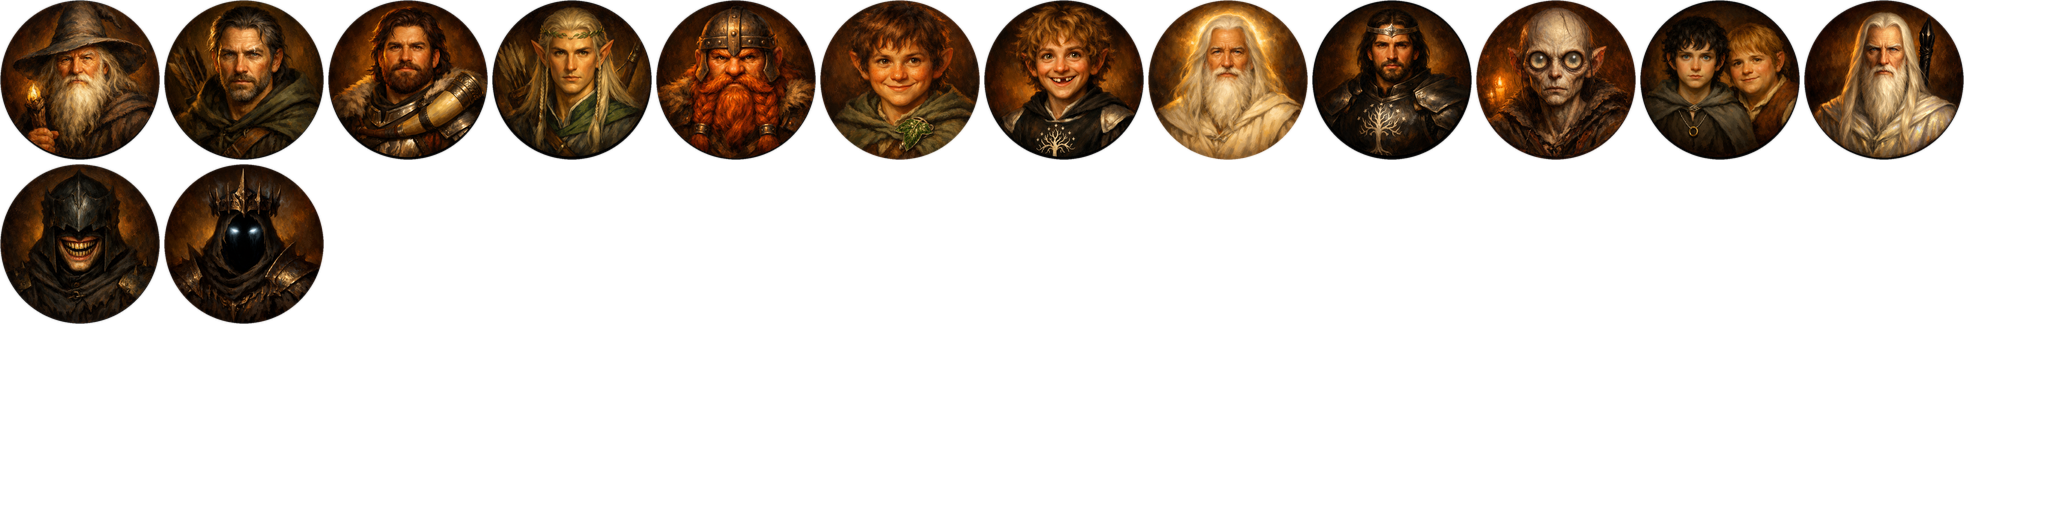
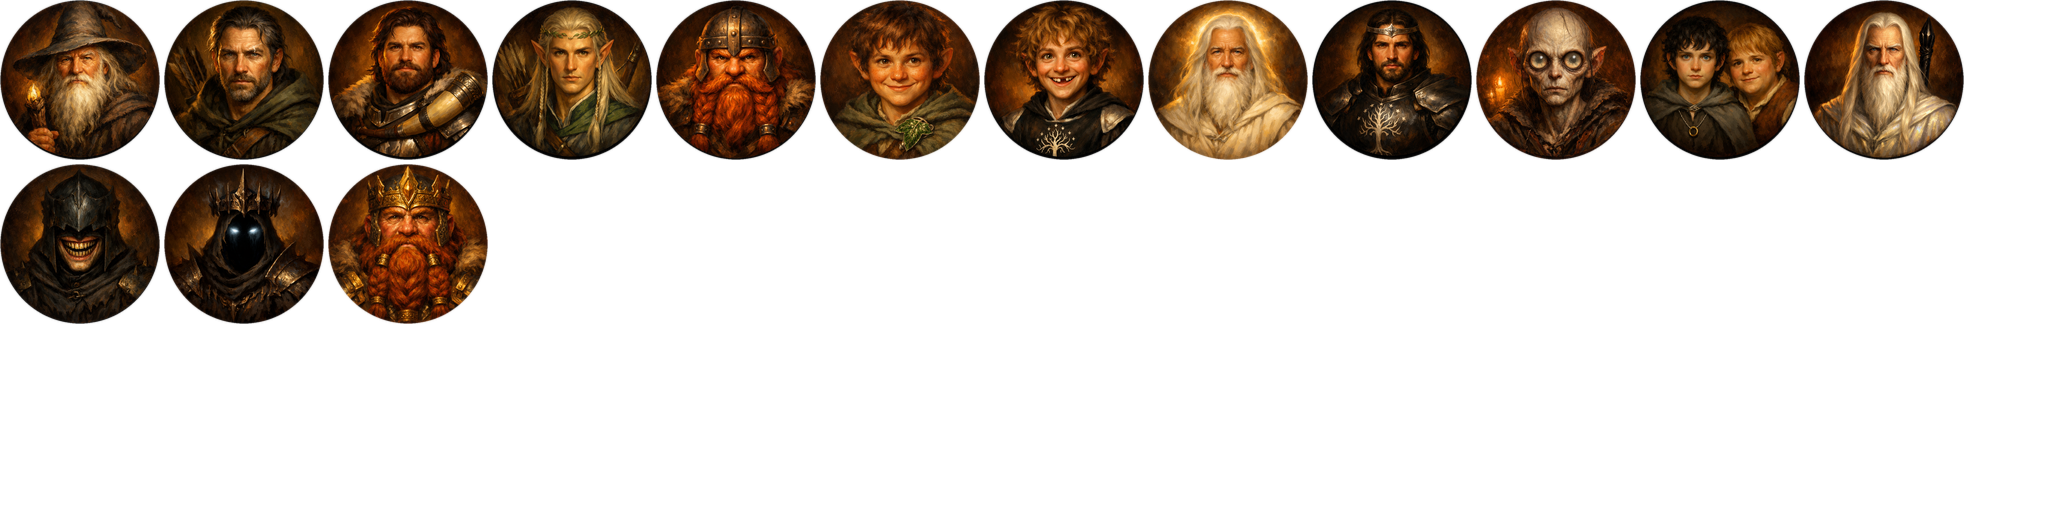
ART-05: Fate of Erebor art
Generated the Dwarven Lord Gimli's figure and portrait and the Shadow-held
Erebor landmark with the existing pipelines, reviewed for the house style,
and built them into the character and portrait atlases and the map
landmarks. The figure atlas builder now builds from the generated items and
lists the rest as pending (Lords and Kings, ART-06/ART-07).

Changed region(s): [[0.1562, 0.3125, 0.25, 0.6562]]

diff --git a/scripts/build_figure_art.py b/scripts/build_figure_art.py
@@ -25,7 +25,7 @@ WIDTH = 2048
 # Relative height of a figure in its cell, so a regular stands lower than its elite and a hobbit lower than a
 # man wherever the cell is shown at one size; the figure stands on the cell's bottom edge.
 STATURE = {'-regular': 0.78, '-leader': 0.88, 'merry': 0.62, 'pippin': 0.62, 'ring-bearers': 0.64, 'gollum': 0.55,
-           'gimli': 0.74}
+           'gimli': 0.74, 'gimli-dwarven-lord': 0.74}
 # style -> (atlas name, cell height, widest cell)
 ATLASES = {
     'unit': ('units-v3', 240, 400),
@@ -94,15 +94,16 @@ def cells(atlas, boxes):
 
 def build():
     spec = json.loads((SOURCE / 'prompts.json').read_text())
-    outputs, sources = {}, {}
+    outputs, sources, pending = {}, {}, []
     for style, (name, height, widest) in ATLASES.items():
         keys = [key for key, (kind, _) in spec['items'].items() if kind == style]
+        # ART-04: an item whose art is not generated yet (its expansion's ART task) waits outside the atlas; the
+        # client shows the figure silhouette for it until then.
+        pending += [key for key in keys if not (SOURCE / 'raw' / (key + '.png')).exists()]
+        keys = [key for key in keys if key not in pending]
         if not keys:
             continue
         paths = {key: SOURCE / 'raw' / (key + '.png') for key in keys}
-        missing = [key for key, path in paths.items() if not path.exists()]
-        if missing:
-            raise SystemExit('Missing raw images: ' + ', '.join(missing))
         # A portrait's cell takes its character's key ("strider-portrait" -> "strider"), as PortraitArtwork asks.
         images = {key.removesuffix('-portrait'): portrait(path, height) if style == 'portrait'
                   else figure(path, key, height, widest) for key, path in paths.items()}
@@ -115,18 +116,19 @@ def build():
         outputs[name + '.png'] = png.getvalue()
         outputs[name + '.json'] = (json.dumps(definition, indent=2) + '\n').encode()
         sources.update({str(path.relative_to(ROOT)): sha(path.read_bytes()) for path in paths.values()})
-    return outputs, sources
+    return outputs, sources, pending
 
 
-def report(outputs, sources):
+def report(outputs, sources, pending):
     return {
-        'version': 'art-figures-1', 'tasks': ['ART-01', 'ART-02'],
+        'version': 'art-figures-1', 'tasks': ['ART-01', 'ART-02', 'ART-04', 'ART-05'],
         'sources': {**sources, 'graphicalassets/figures/v3/prompts.json': sha((SOURCE / 'prompts.json').read_bytes()),
                     'scripts/build_figure_art.py': sha(Path(__file__).read_bytes())},
         'tools': {'Pillow': PIL.__version__},
         'atlases': {name: {'cellHeight': height, 'widestCell': widest} for _, (name, height, widest) in ATLASES.items()},
         'stature': STATURE,
         'outputs': {str((ART / name).relative_to(ROOT)): sha(data) for name, data in sorted(outputs.items())},
+        'pending': sorted(pending),
     }
 
 
@@ -134,9 +136,9 @@ def main():
     parser = argparse.ArgumentParser(description=__doc__)
     parser.add_argument('--check', action='store_true', help='verify that the committed atlases match their sources')
     args = parser.parse_args()
-    outputs, sources = build()
+    outputs, sources, pending = build()
     files = {ART / name: data for name, data in outputs.items()}
-    files[REPORT] = (json.dumps(report(outputs, sources), indent=2) + '\n').encode()
+    files[REPORT] = (json.dumps(report(outputs, sources, pending), indent=2) + '\n').encode()
     for path, data in files.items():
         if args.check:
             if not path.exists() or path.read_bytes() != data:

diff --git a/unity/Wotr.Client/Assets/Wotr/Tests/Editor/CharacterFigureArtTests.cs b/unity/Wotr.Client/Assets/Wotr/Tests/Editor/CharacterFigureArtTests.cs
@@ -19,7 +19,9 @@ namespace Wotr.EditorTests
         [Test]
         public void EveryBaseCharacterHasItsOwnFigure()
         {
-            CollectionAssert.AreEquivalent(BaseCharacters, FigureArtwork.Characters.Names);
+            // ART-05: the expansions' own characters join the atlas as their art is generated (Fate's Dwarven Lord now).
+            CollectionAssert.AreEquivalent(BaseCharacters.Append("gimli-dwarven-lord"), FigureArtwork.Characters.Names);
+            Assert.AreEqual("gimli-dwarven-lord", FigureAppearances.Character("fate.character.gimli-dwarven-lord", Side.FreePeoples).Key);
             foreach (var key in BaseCharacters)
             {
                 var side = key is "saruman" or "mouth-of-sauron" or "witch-king" ? Side.Shadow : Side.FreePeoples;

diff --git a/unity/Wotr.Client/Assets/Wotr/Tests/Editor/PortraitArtworkTests.cs b/unity/Wotr.Client/Assets/Wotr/Tests/Editor/PortraitArtworkTests.cs
@@ -48,6 +48,8 @@ namespace Wotr.Client.Tests
             }
             Assert.AreEqual(10, expansions.Where(id => id.StartsWith("kings.character.") && id.Count(c => c == '.') == 3)
                 .Select(PortraitArtwork.Key).Distinct().Count(), "Five sovereigns, two states each.");
+            // ART-05: Fate's Dwarven Lord has his painted portrait.
+            Assert.IsNotNull(PortraitArtwork.Sprite("fate.character.gimli-dwarven-lord"));
         }
 
         [Test]

diff --git a/graphicalassets/figures/README.md b/graphicalassets/figures/README.md
@@ -90,3 +90,12 @@ of the five corrupted sovereigns, keyed like their cells (`PortraitArtwork.Key`:
 "brand-corrupted-portrait", "black-serpent"). Lords versions of base characters reuse the base art with an owner-only
 badge (owner decision 2026-10-19). Nothing is generated yet: ART-05 (Fate), ART-06 (Lords) and ART-07 (Kings) run
 `v3/generate.py` for their keys and review the results.
+
+## Fate of Erebor — ART-05 (2026-10-19)
+
+Generated with `v3/generate.py` (logged in `v3/generations.jsonl`): `gimli-dwarven-lord` (figure, stature 0.74 like
+Gimli) and `gimli-dwarven-lord-portrait`, reviewed for the house style (painted resin figure; candlelit oil bust with
+a gilded crowned helm, no actor likeness). `scripts/build_figure_art.py` now builds the atlases from the items that
+have raw images and lists the rest as `pending` in `docs/sources/ART-FIGURES.json` (the Lords and Kings characters,
+ART-06 and ART-07), instead of refusing to build.
+

diff --git a/docs/ui/UX_SPEC.md b/docs/ui/UX_SPEC.md
@@ -1235,6 +1235,13 @@ the plaque closes it. No new window is made. Details: [TURN_CONSOLE_UX](TURN_CON
 [CARD_CHOICES_UX](CARD_CHOICES_UX.md). Tests: `RequiredDecisionTests`,
 `BoardInteractionTests.RequiredExcessOpensItsRegionPanelFromThePlaqueAndTheNotice`.
 
+## Fate of Erebor art — ART-05 (2026-10-19)
+
+Generated and built with the existing pipelines: the Dwarven Lord Gimli's figure and portrait (`gimli-dwarven-lord`
+in `characters-v1` and `battle-portraits-v2`) and the Shadow-held Erebor landmark (`map-landmarks/erebor-shadow`),
+which UI-265 draws in Erebor's place in a Fate game. The base Gimli keeps his cells for Fate's standard version.
+Details: `graphicalassets/figures/README.md`, `graphicalassets/landmarks/README.md`.
+
 ## Expansion characters: portrait keys and ability lines — ART-04 (2026-10-19)
 
 A character's portrait and figure cell is its definition id after "<module>.character.", dots as dashes

diff --git a/graphicalassets/landmarks/README.md b/graphicalassets/landmarks/README.md
@@ -22,3 +22,11 @@ user's key from the environment. [Prompts](v1/prompts.json), [generation script]
 [manifest](v1/manifest.json). `build.py --check` verifies outputs against the manifest.
 
 Replacement artwork, not taken from the original game's components.
+
+## Shadow-held Erebor — ART-05 (2026-10-19)
+
+`erebor-shadow`: the same mountain gate taken by the enemy (broken gate barred with spiked timbers, smoke from the
+vents, ragged banners, a crude watch platform), generated with `v1/generate.py` and built by `build.py` into
+`Resources/Wotr/Art/map-landmarks/erebor-shadow.png`. Fate of Erebor starts with Erebor in Shadow hands; UI-265 draws
+this variant in Erebor's place when the game uses Fate.
+
